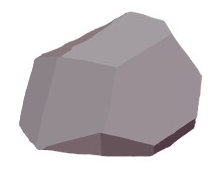
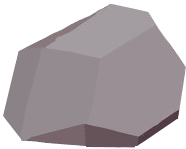
elemek ki vágása és megjelenése

Changed region(s): [[0.0, 0.0268, 1.0, 0.9933]]

diff --git a/js/script.js b/js/script.js
@@ -1,4 +1,6 @@
 var gameInterval = null;
+var gameIntervalSzunyog = null;
+var gameIntervalElemek = null;
 var gameArea = document.querySelector("section");
 var beka = new Beka(90, 450, "section", 25);
 var scoreInterval = null;
@@ -14,12 +16,17 @@ document.querySelector(".kezdes").addEventListener("click", () => {
             }
         });
         scoreListener();
-        gameInterval = setInterval(() => {
+        gameIntervalSzunyog = setInterval(() => {
             var y = Math.random() * (gameArea.offsetHeight - 50);
             var speed = 1 + Math.random() * 2;
             var obj = new Szunyog(gameArea.offsetWidth, y, speed, "section");
             obj.move();
         }, 10000);
+        gameIntervalElemek = setInterval(() => {
+            var speed = 15;
+            var obj = new Elemek(gameArea.offsetWidth,  "section", speed);
+            obj.move();
+        }, 1000);
     }
 });
 

diff --git a/js/Elemek.js b/js/Elemek.js
@@ -9,9 +9,8 @@ class Elemek{
 
     static #elet = 3;/* nincs */
 
-    constructor(x,y,container, speed){
+    constructor(x,container, speed){
         this.setX(x);
-        this.setY(y);
         this.setSpeed(speed);
         this.setContainer(container);
         this.createElement();
@@ -33,7 +32,7 @@ class Elemek{
         this.#element = document.createElement("div");
         this.#element.style.left = this.#x + "px";
         this.#element.style.top = this.#y + "px";
-        this.#isAg = Math.random() < 0.3;
+        this.#isAg = Math.random() < 0.5;
         this.#element.classList.add(this.#isAg ? "ag" : "ko")
         this.#container.appendChild(this.#element);
     }

diff --git a/css/style.css b/css/style.css
@@ -60,7 +60,7 @@ footer {
 } 
 .ag{
     background-image: url("../img/ag.png");
-    width: 50px;
+    width: 1000px;
     height: 200px;
     top: 20px;
 } 
